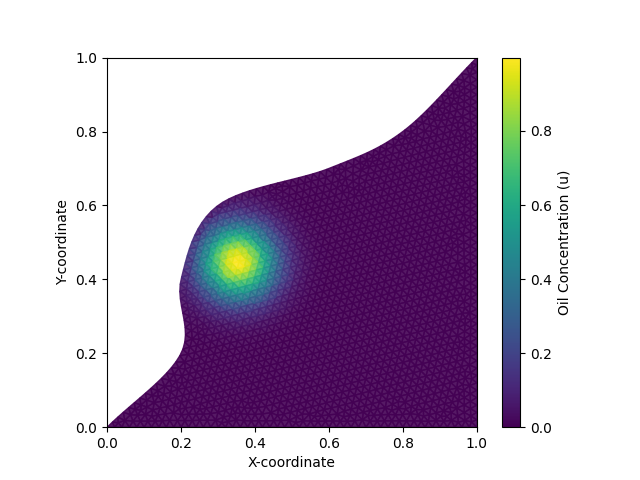
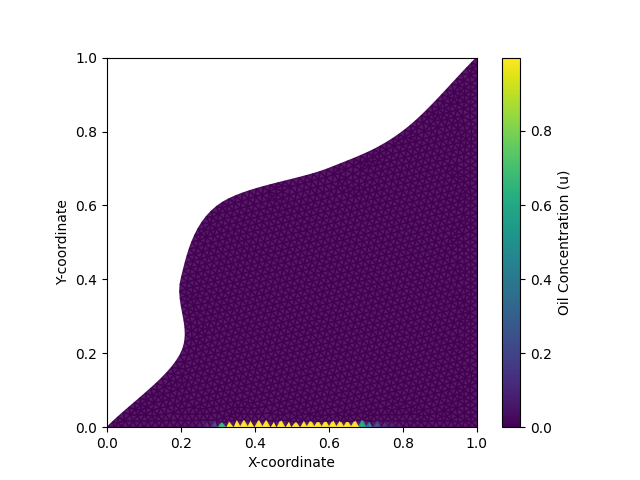
simulation fixed now, issues with oil moving right, fixed by flipping the normals. Issues with oil hitting boundary triangles needs to be fixed

Changed region(s): [[0.2812, 0.4062, 0.4688, 0.6875], [0.3125, 0.875, 0.5938, 0.9062]]

diff --git a/msh_classes.py b/msh_classes.py
@@ -95,7 +95,7 @@ class Triangle(Cell): #triangle class, parent class: cell
             p_j = self._coordinates[j]
             p_i = self._coordinates[i]
             e_vector = np.subtract(p_j, p_i)
-            normal = [-e_vector[1], e_vector[0]] #[-e[1], e[0]]
+            normal = [e_vector[1], -e_vector[0]] #[e[1], -e[0]] = [dy, -dx]
             orthonormal = normal / np.linalg.norm(normal)
 
             check_vector = np.subtract(p_i, midpoint)
